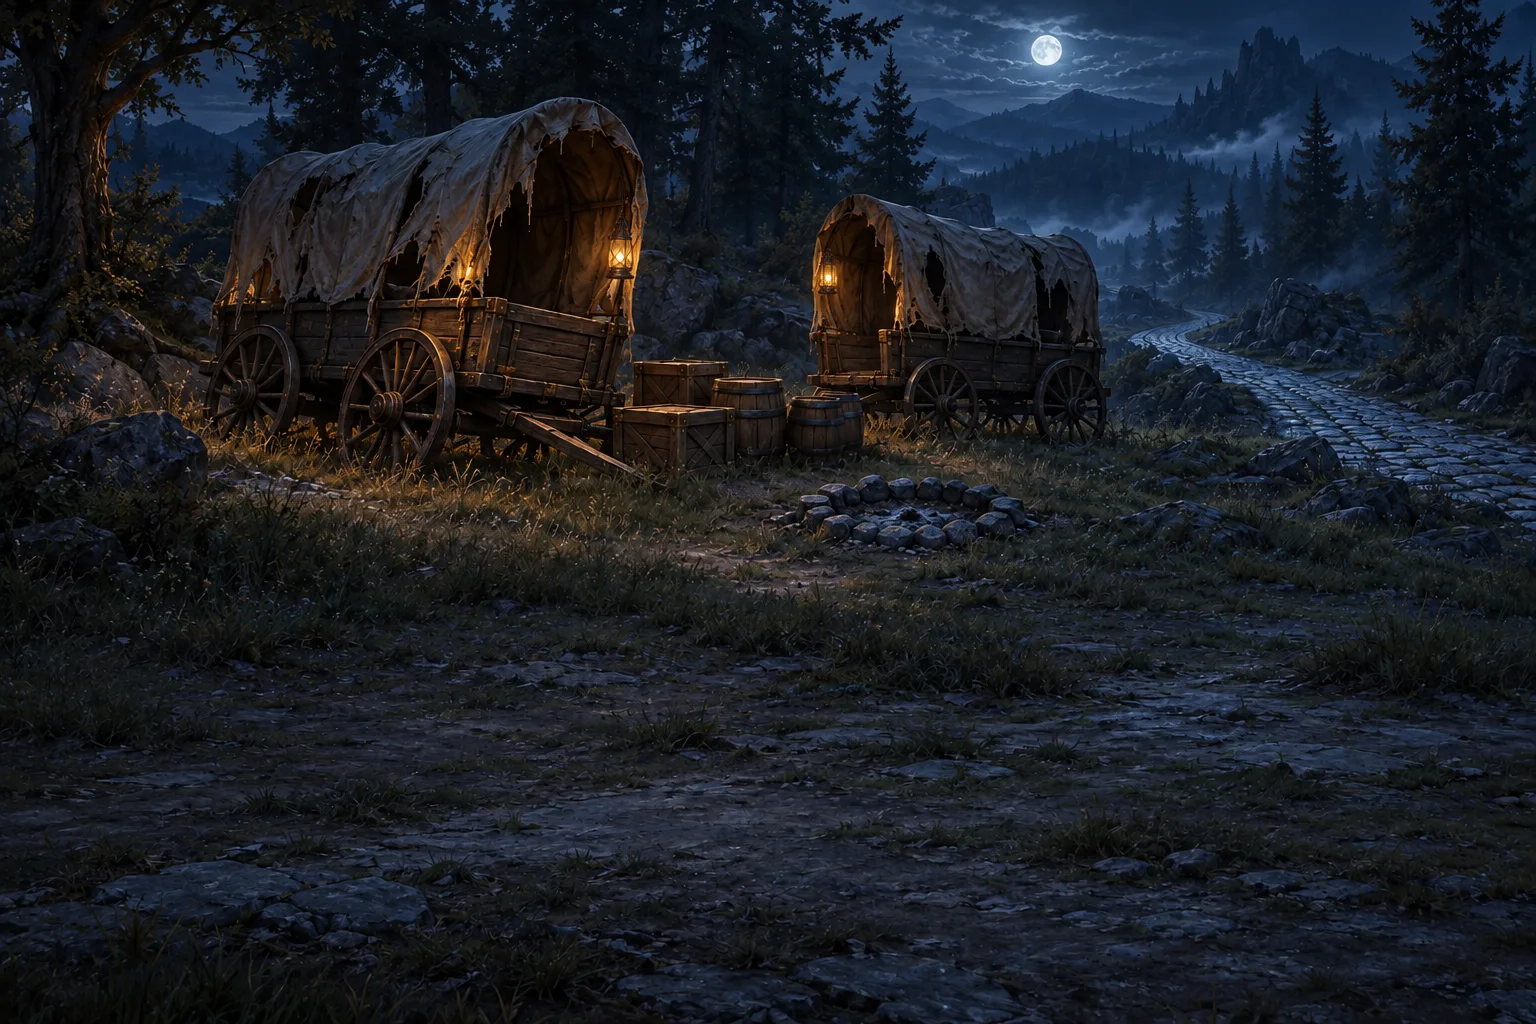
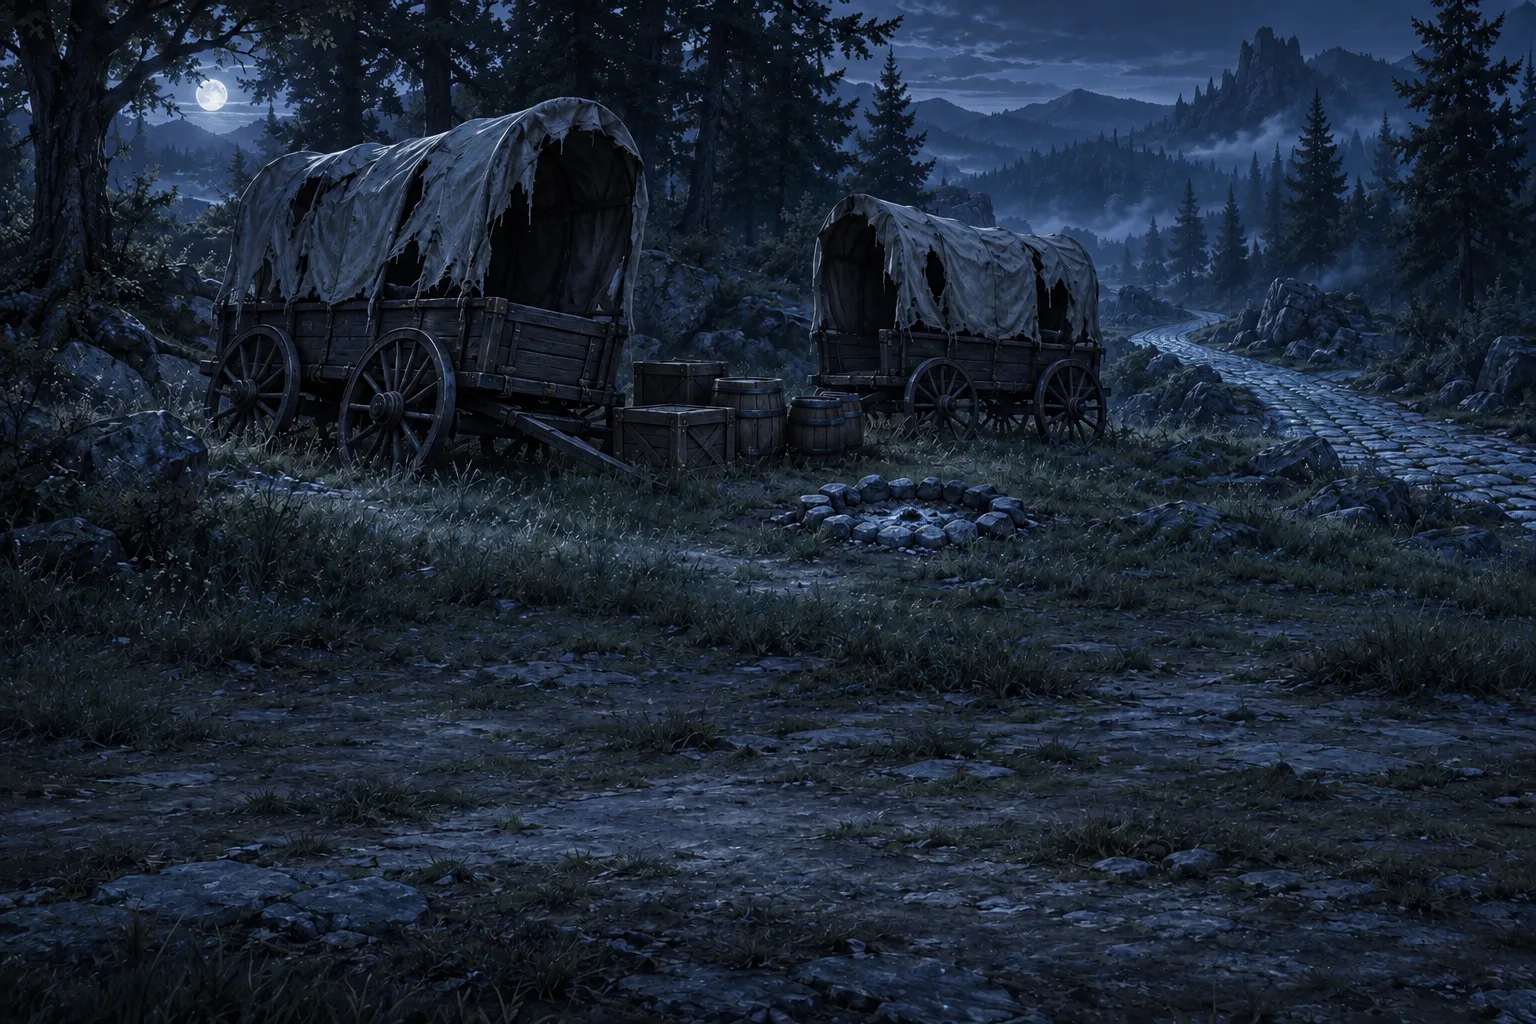
Stage 330: moonlit abandoned camp at night; identity report
The night variant of the abandoned caravan site showed lit lanterns in the
wagons (a false sign of presence at an abandoned camp) in two generations;
the third, lit by moonlight only, replaces it. reports/STAGE_330_IDENTITY.md
records the session's check of every derived picture against its canonical
reference and the rejected pictures.

diff --git a/reports/STAGE_330_IDENTITY.md b/reports/STAGE_330_IDENTITY.md
@@ -1,0 +1,53 @@
+# Stage 330 — identity of the curated Ravenford set
+
+- Date: 2026-10-16. Checked by the session (visual comparison of every derived picture with its
+  canonical reference, side by side at equal size); not a human judgement and not a metric.
+- Set: `fixtures/ravenford-ru/assets/manifest.json` — 45 GPT-made pictures (OpenAI image model via
+  Codex CLI on the owner's ChatGPT subscription, owner decision Q6). Derived pictures were generated
+  with the canonical reference attached as the input image (ADR 0035).
+- Criteria: people — face, hair, build, costume, palette, silhouette; places — architecture,
+  composition, viewpoint, landmarks; objects — shape and material. "Holds" means a player would take
+  the two pictures for the same person or place.
+
+## Canonical references (look taken from the owner's concepts where a concept shows it)
+
+| Entity                            | Reference            | Matches the owner's concept                                                                      |
+| --------------------------------- | -------------------- | ------------------------------------------------------------------------------------------------ |
+| Эловен (Elowen Starwhisper)       | portrait             | yes — platinum-blonde elf, green hooded cloak, leather armour, longbow (concepts 02, 06)         |
+| Мира Вейл (Mira Vale)             | portrait             | yes — braided brown hair, green bodice, cream blouse (concept 07)                                |
+| Орин Камнебород (Orin Stonebeard) | portrait             | yes — braided red-grey beard, brass goggles, leather apron (concept 04)                          |
+| Капитан Торн (Captain Thorne)     | portrait             | yes — dark hair, trimmed beard, steel cuirass (concept 07)                                       |
+| Goblin raider, goblin shaman      | portraits            | no concept shows them; style only                                                                |
+| Eight places, five objects        | scenes / close views | style from the concepts; the square and Orin's shop take their character from concepts 07 and 04 |
+
+## Derived pictures
+
+| Picture                                 | Holds                            | Notes                                                                                                                                                               |
+| --------------------------------------- | -------------------------------- | ------------------------------------------------------------------------------------------------------------------------------------------------------------------- |
+| ravenford — night, rain                 | yes                              | same river, bridge, castle, path                                                                                                                                    |
+| market-square — night, rain, night-rain | yes                              | same fountain, stalls, guild hall, keep                                                                                                                             |
+| golden-stag-inn — night, rain           | yes                              | same façade and stag sign                                                                                                                                           |
+| orins-alchemy — night                   | yes                              | same shopfront and flask sign                                                                                                                                       |
+| orins-alchemy — rain                    | yes, minor drift                 | the hanging sign lost its flask symbol; the shopfront is unchanged                                                                                                  |
+| merchant-guild — night, rain            | yes                              | same hall, doors, banners                                                                                                                                           |
+| north-gate — night, rain                | yes                              | same towers, portcullis, guard post                                                                                                                                 |
+| old-trade-road — night, fog             | yes                              | same bend, boulder, lantern, carts                                                                                                                                  |
+| old-trade-road — battle map             | yes (by design a different view) | top-down road through the same autumn scrub; carts, boulder and ditch omitted on purpose — the board places cover and difficult ground from the encounter's squares |
+| abandoned-caravan-site — night          | yes, after two regenerations     | the first two showed lit lanterns in the wagons (a false sign of presence at an abandoned camp); the third, lit by moonlight only, is the one shipped               |
+| elowen-starwhisper — wounded            | yes                              | same face, hair, cloak; torn sleeve, bandaged arm                                                                                                                   |
+| goblin-raider — wounded                 | yes                              | same face, blade, shield; cuts and blood                                                                                                                            |
+| goblin-shaman — wounded                 | yes                              | same face, hood, staff; cuts and blood                                                                                                                              |
+| figures (all six)                       | yes                              | same hair, costume and palette as the portraits, on a round stone base                                                                                              |
+
+## Rejected pictures (kept outside the repository with the originals)
+
+- `tracks`: the first object picture showed tread-soled boot prints — an anachronism and a clue the
+  investigation must earn ("the attackers were not simply goblins"). Replaced by `wagon-tracks`:
+  wheel ruts and blurred hoofprints only.
+- `abandoned-caravan-site--night` (two attempts): lit lanterns in the wagons.
+
+## Limits
+
+Identity was judged by a language model looking at downscaled pictures; drift in small details
+(a sign, a buckle) can pass unnoticed. Recurring-character drift in images the DM generates in play
+(OpenRouter) is not covered here; those images reach players only after the DM approves them.
